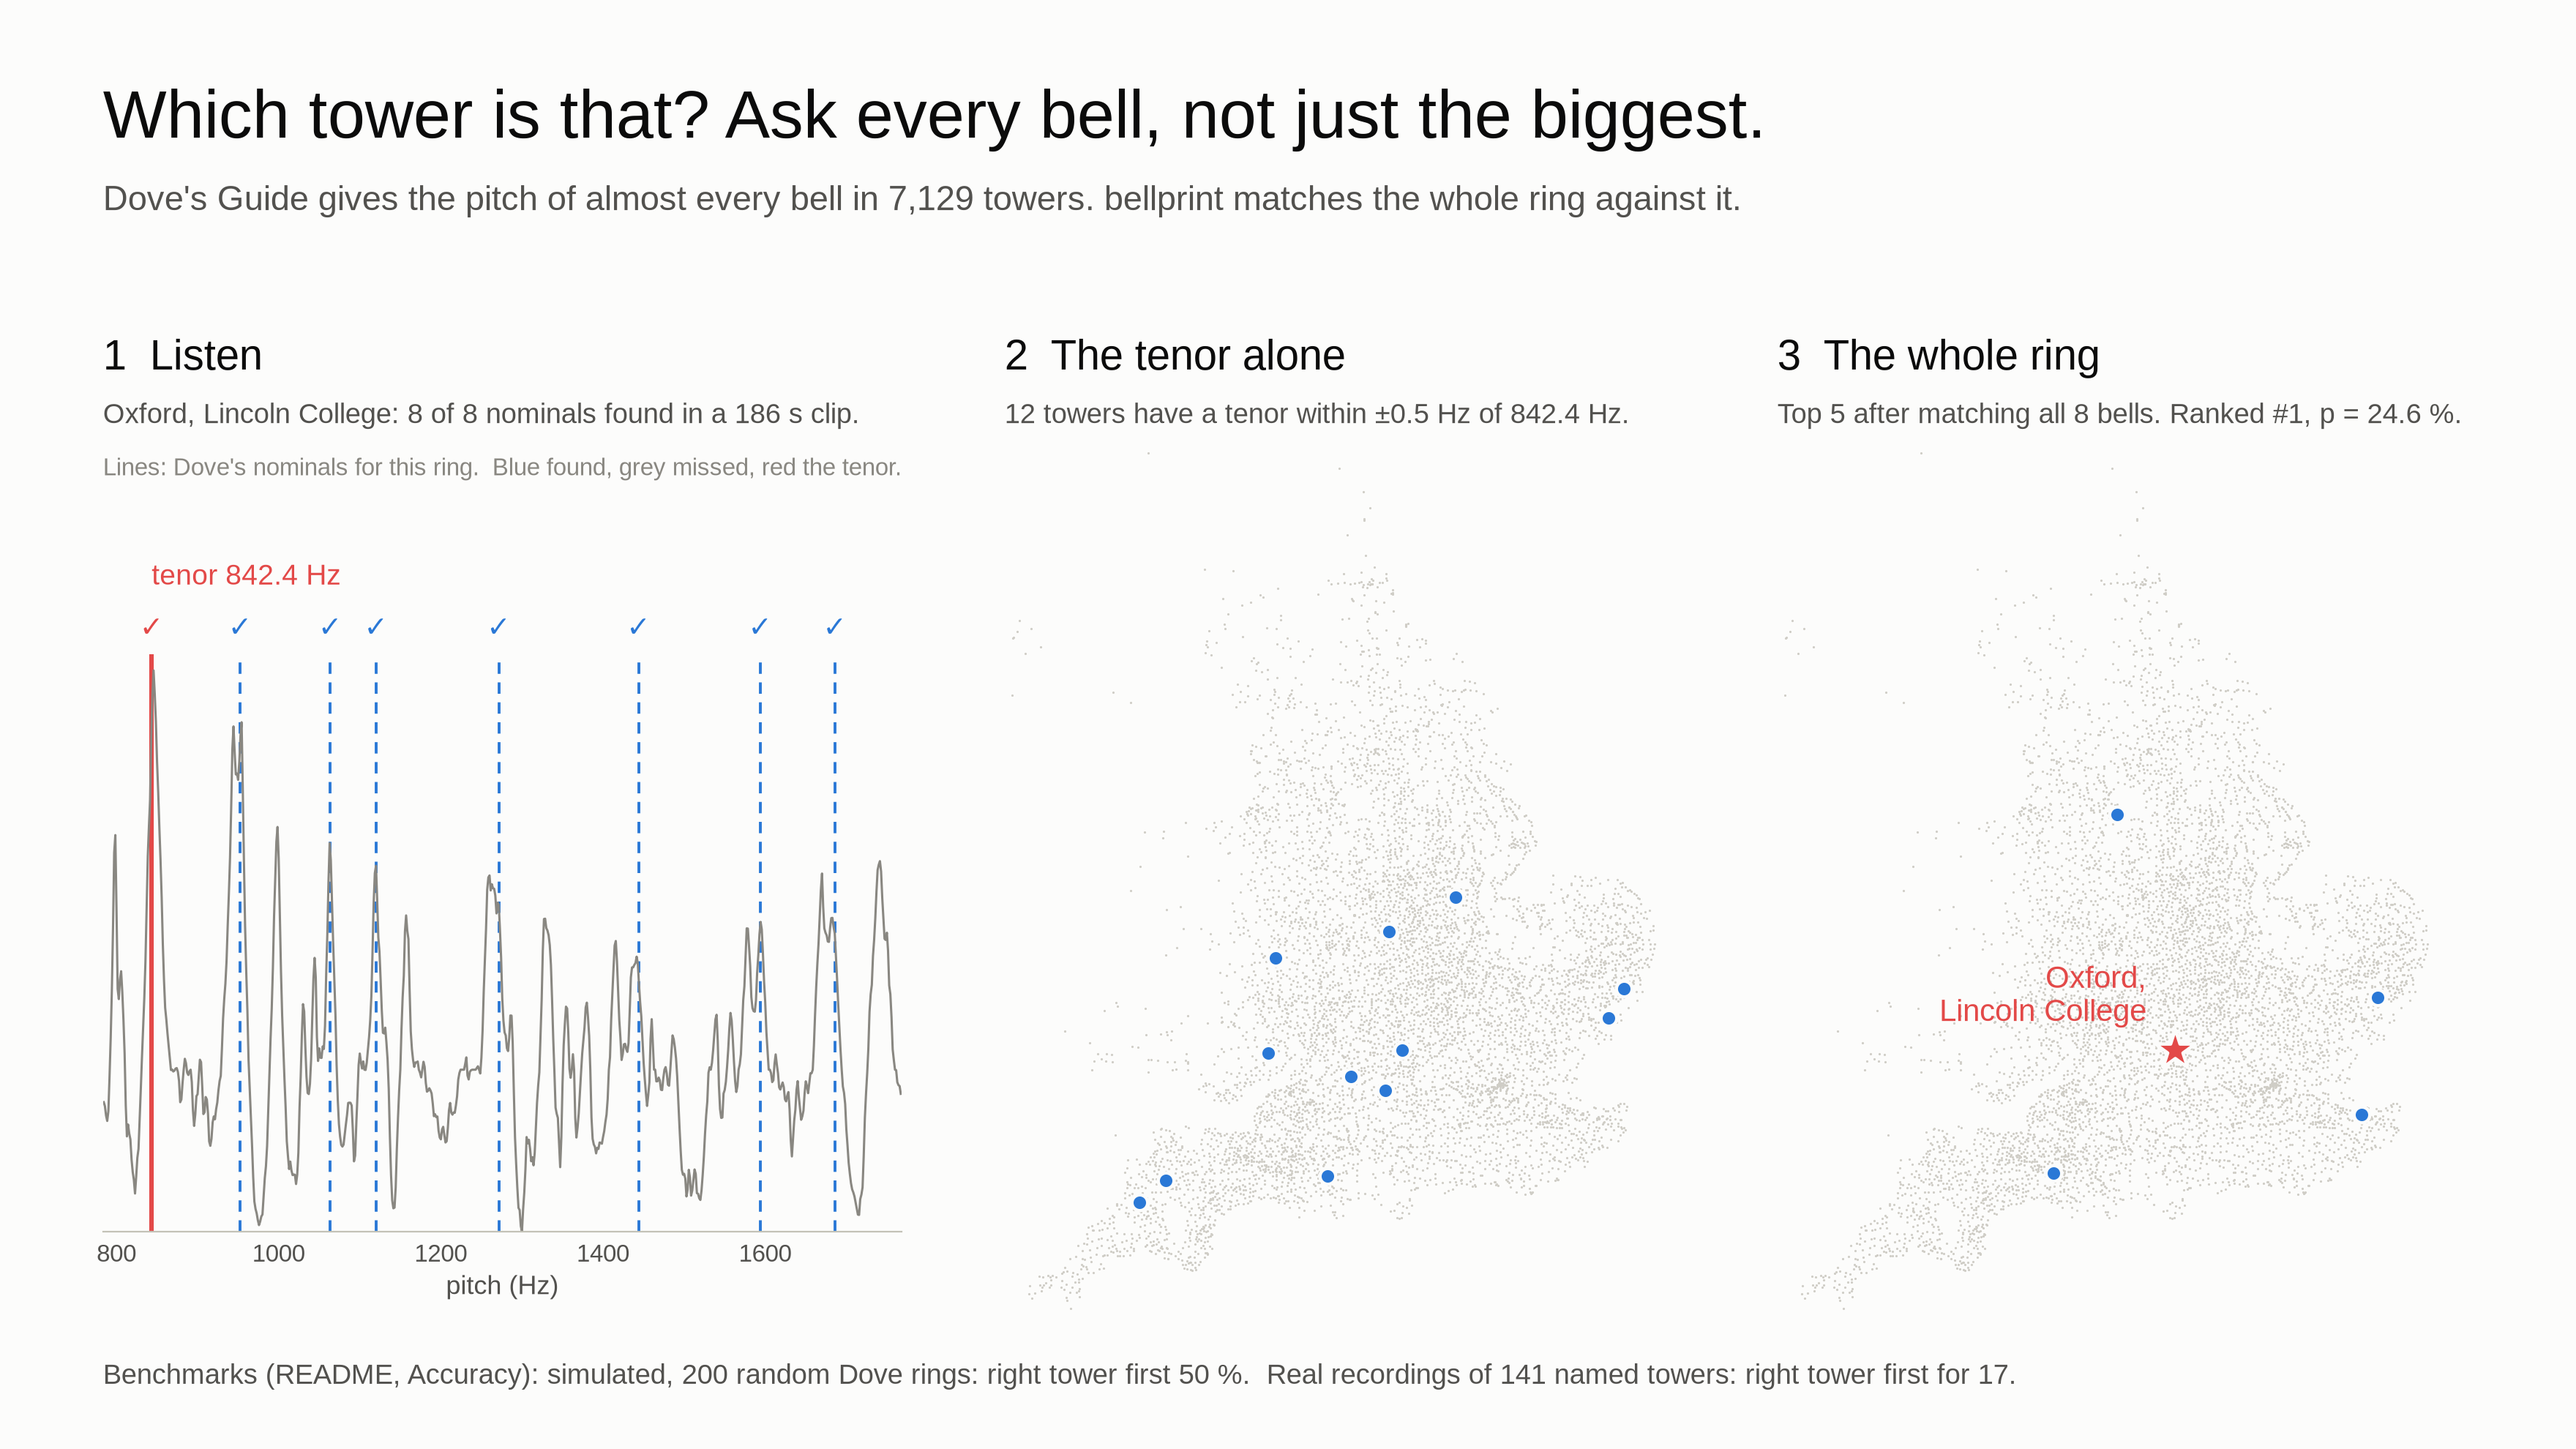
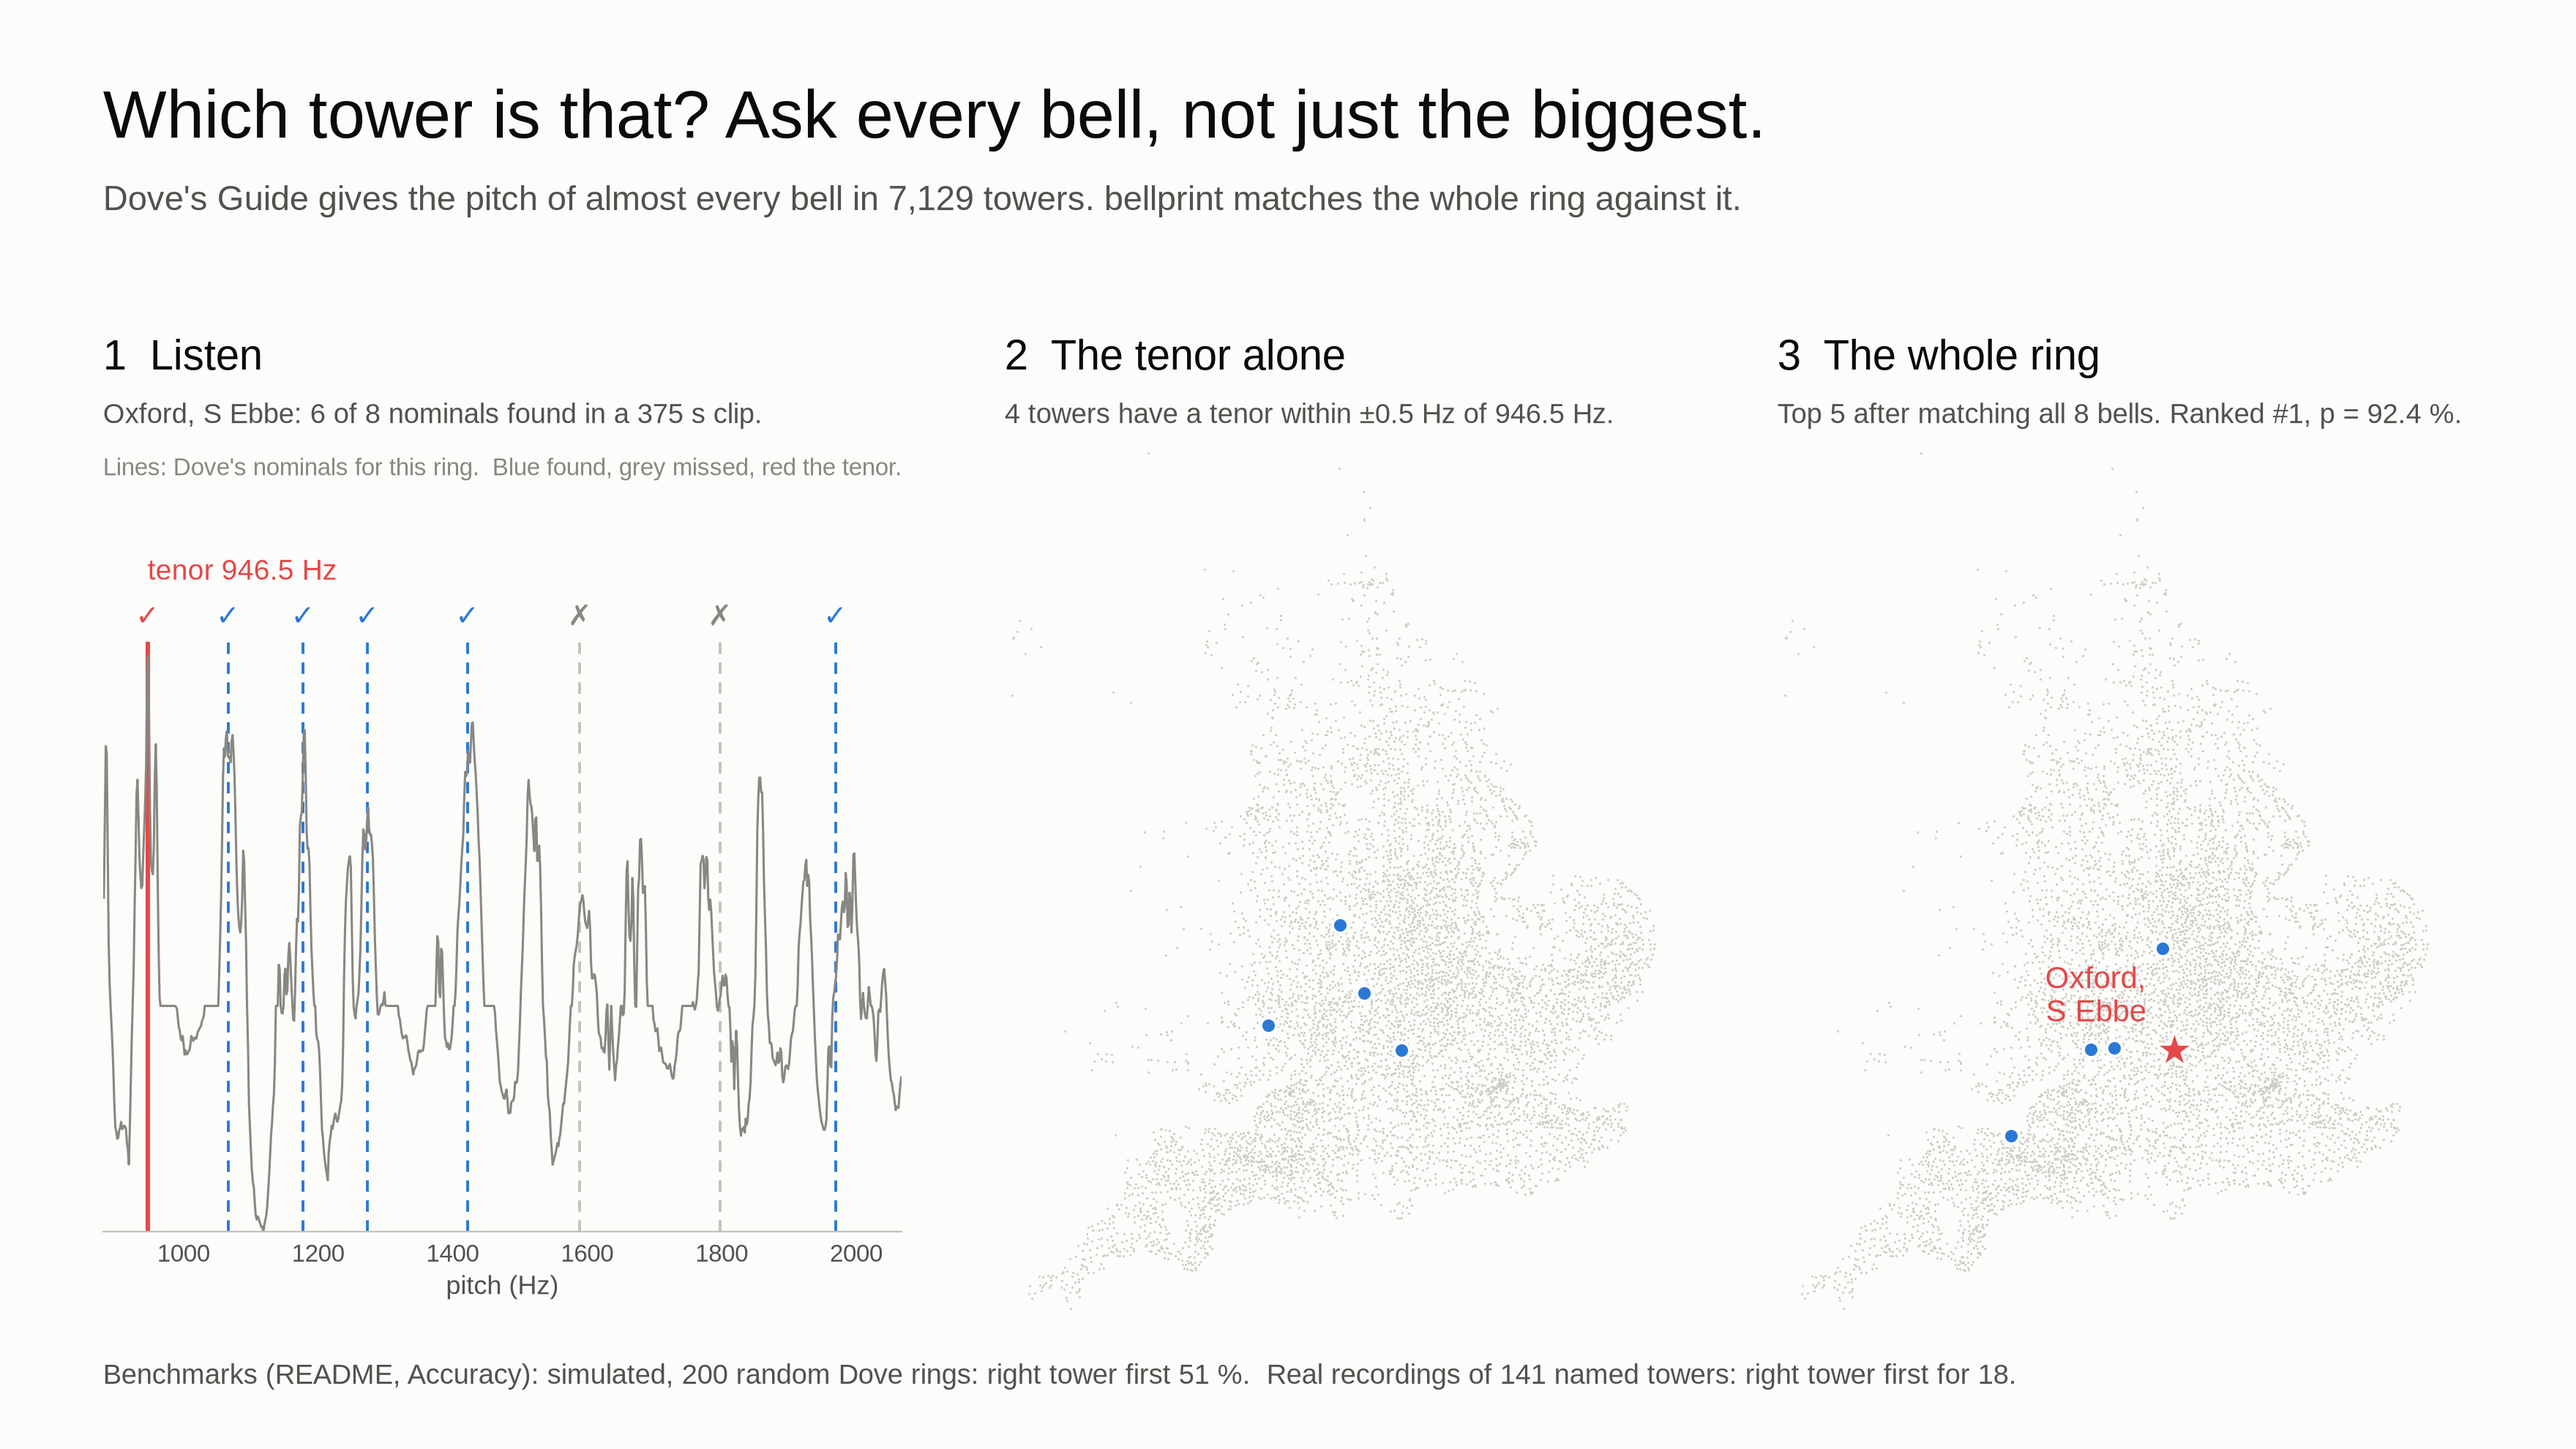
Header: Oxford St Ebbe, which the 75th-percentile spectrum ranks first
Lincoln College dropped to rank 13 with the new spectrum; readme_figure.py now finds clips in every manifest.

diff --git a/tools/readme_figure.py b/tools/readme_figure.py
@@ -21,7 +21,7 @@ import numpy as np
 import soundfile as sf
 
 ROOT = Path(__file__).resolve().parent.parent
-CLIP = sys.argv[1] if len(sys.argv) > 1 else "oxford-lincoln-college"
+CLIP = sys.argv[1] if len(sys.argv) > 1 else "sc-oxford-st-ebbe"
 BIN = Path(os.environ.get("BELLPRINT_BIN", ROOT / "target/fastrel/bellprint"))
 OUT = ROOT / "docs/img/header.png"
 
@@ -40,8 +40,12 @@ plt.rcParams.update({"font.family": ["Liberation Sans", "DejaVu Sans"], "text.co
 
 
 def manifest_entry(clip):
-    with open(ROOT / "data/corpus/manifest.toml", "rb") as f:
-        return next(c for c in tomllib.load(f)["recording"] if c["id"] == clip)
+    for path in sorted((ROOT / "data/corpus").glob("manifest*.toml")):
+        with open(path, "rb") as f:
+            for c in tomllib.load(f)["recording"]:
+                if c["id"] == clip:
+                    return c
+    raise SystemExit(f"{clip}: not in any data/corpus/manifest*.toml")
 
 
 def locate(audio):

diff --git a/README.md b/README.md
@@ -1,6 +1,6 @@
 # bellprint
 
-![Three panels: the spectrum of a real recording at Oxford, Lincoln College with its bells' nominals marked; a map of the 12 towers whose tenor shares that pitch; and a map where matching the whole ring ranks Lincoln College first.](docs/img/header.png)
+![Three panels: the spectrum of a real recording at Oxford, St Ebbe with its bells' nominals marked; a map of the 4 towers whose tenor shares that pitch; and a map where matching the whole ring ranks St Ebbe first.](docs/img/header.png)
 
 [![CI](https://github.com/Hexay/bellprint/actions/workflows/ci.yml/badge.svg)](https://github.com/Hexay/bellprint/actions/workflows/ci.yml)
 [![PyPI](https://img.shields.io/pypi/v/bellprint.svg)](https://pypi.org/project/bellprint/)
